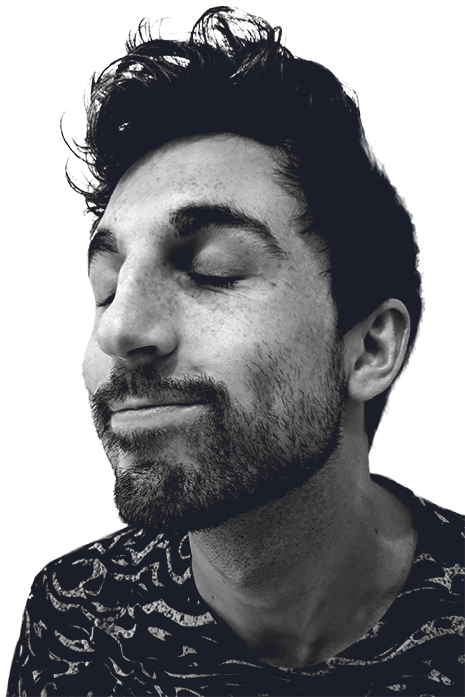
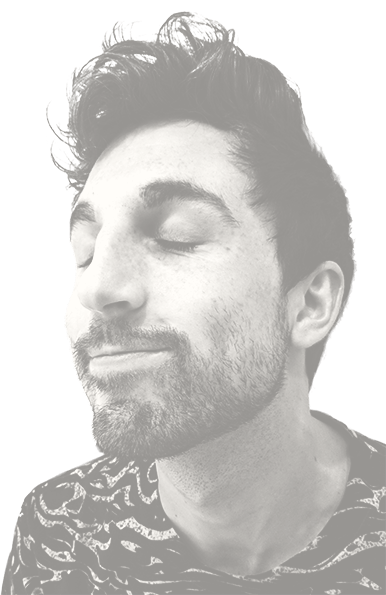
Lighten homepage
To match global light theme.

diff --git a/src/pages/index.tsx b/src/pages/index.tsx
@@ -5,16 +5,7 @@ import Base from '../templates/Base'
 import Cube3D from '../components/Cube3D'
 import Disc3D from '../components/Disc3D'
 import TextLink from '../components/TextLink'
-import {
-  green,
-  purple,
-  red,
-  articleTextWidth,
-  contentStartSpacing,
-  largeHeaderSize,
-  deepTextShadow,
-  background,
-} from '../style'
+import { articleTextWidth, contentStartSpacing } from '../style'
 
 const waveTexture = require('../assets/wave-texture.jpg')
 const portraitImage = require('../assets/portrait.png')
@@ -23,29 +14,6 @@ export default function IndexPage(): JSX.Element {
   return (
     <Base>
       <Section>
-        <H1>
-          <Word>
-            <H>A</H>
-            <H>x</H>
-            <H>o</H>
-            <H>l</H>
-            <H>o</H>
-            <H>t</H>
-            <H>l</H>
-          </Word>
-          <Word>
-            <H>I</H>
-            <H>n</H>
-            <H>d</H>
-            <H>u</H>
-            <H>s</H>
-            <H>t</H>
-            <H>r</H>
-            <H>i</H>
-            <H>e</H>
-            <H>s</H>
-          </Word>
-        </H1>
         <Texture>
           <Disc3D
             style={{
@@ -94,16 +62,8 @@ const Section = styled('section')({
   marginTop: `calc(${contentStartSpacing} / 2)`,
 })
 
-const H1 = styled('h1')({
-  fontSize: largeHeaderSize,
-  marginBottom: '-.3em',
-  position: 'relative',
-  zIndex: 1,
-})
-
 const P = styled('p')({
   fontSize: '1.5em',
-  fontWeight: 'bold',
 
   lineHeight: 1.45,
 
@@ -115,13 +75,11 @@ const P = styled('p')({
 const Texture = styled('div')({
   position: 'relative',
   height: '210px',
-  padding: '0 30px 0 20px',
+  padding: '0 30px 0 0',
   marginBottom: contentStartSpacing,
 
   background: `no-repeat left/cover url(${waveTexture})`,
-  backgroundBlendMode: 'lighten',
   backgroundClip: 'content-box',
-  backgroundColor: background,
 })
 
 const Portrait = styled('img')({
@@ -131,25 +89,4 @@ const Portrait = styled('img')({
 
   height: '300px',
   margin: 0,
-})
-
-const H = styled('span')({
-  ':nth-of-type( 3n )': {
-    textShadow: deepTextShadow(4, 4, green),
-  },
-  ':nth-of-type( 3n+1 )': {
-    textShadow: deepTextShadow(0, 4, red),
-  },
-  ':nth-of-type( 3n+2 )': {
-    textShadow: deepTextShadow(-4, 4, purple),
-  },
-})
-
-const Word = styled('span')({
-  display: 'inline-block',
-  marginRight: '.5em',
-
-  ':last-child': {
-    margin: 0,
-  },
 })

diff --git a/src/components/Cube3D.tsx b/src/components/Cube3D.tsx
@@ -1,6 +1,6 @@
 import * as React from 'react'
 import styled, { keyframes } from 'react-emotion'
-import { darken } from 'polished'
+import { lighten } from 'polished'
 
 import { purple } from '../style'
 
@@ -16,11 +16,11 @@ export default function Cube3D(props: Cube3DProps): JSX.Element {
     <Container {...props}>
       <Cube>
         <Face color={purple} />
-        <Face color={darken(0.03, purple)} transform="rotateY(.25turn)" />
-        <Face color={darken(0.06, purple)} transform="rotateY(.5turn)" />
-        <Face color={darken(0.03, purple)} transform="rotateY(.75turn)" />
-        <Face color={darken(0.09, purple)} transform="rotateX(.25turn)" />
-        <Face color={darken(0.09, purple)} transform="rotateX(-.25turn)" />
+        <Face color={lighten(0.03, purple)} transform="rotateY(.25turn)" />
+        <Face color={lighten(0.06, purple)} transform="rotateY(.5turn)" />
+        <Face color={lighten(0.03, purple)} transform="rotateY(.75turn)" />
+        <Face color={lighten(0.09, purple)} transform="rotateX(.25turn)" />
+        <Face color={lighten(0.09, purple)} transform="rotateX(-.25turn)" />
       </Cube>
     </Container>
   )

diff --git a/src/components/Disc3D.tsx b/src/components/Disc3D.tsx
@@ -1,6 +1,6 @@
 import * as React from 'react'
 import styled, { keyframes } from 'react-emotion'
-import { darken } from 'polished'
+import { lighten } from 'polished'
 import { range } from 'ramda'
 
 import { red } from '../style'
@@ -93,7 +93,7 @@ const EdgeFace = styled<EdgeProps, 'div'>('div')(
     width: `${1.1 * edgeFaceWidthEm}em`,
     height: `${depthEm}em`,
 
-    backgroundColor: darken(0.05, red),
+    backgroundColor: lighten(0.08, red),
     backfaceVisibility: 'hidden',
   },
 )
